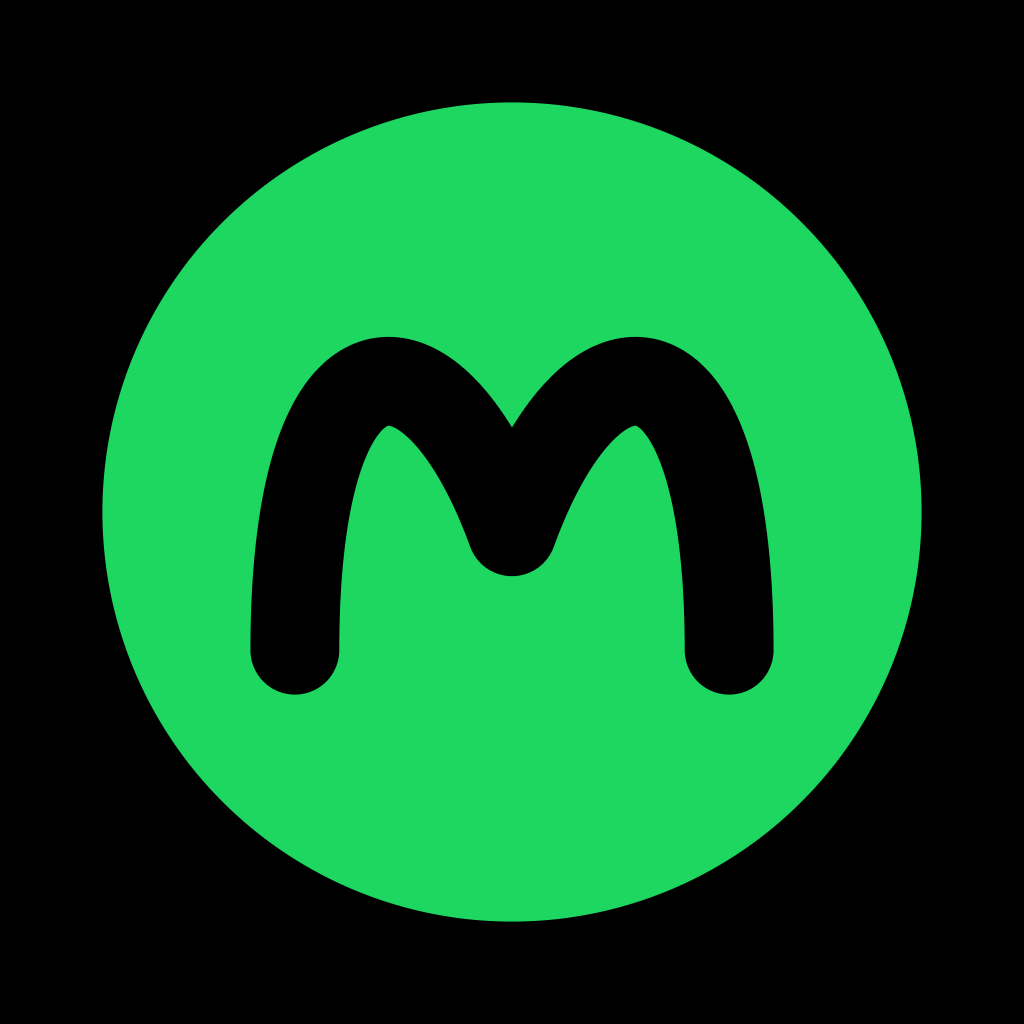
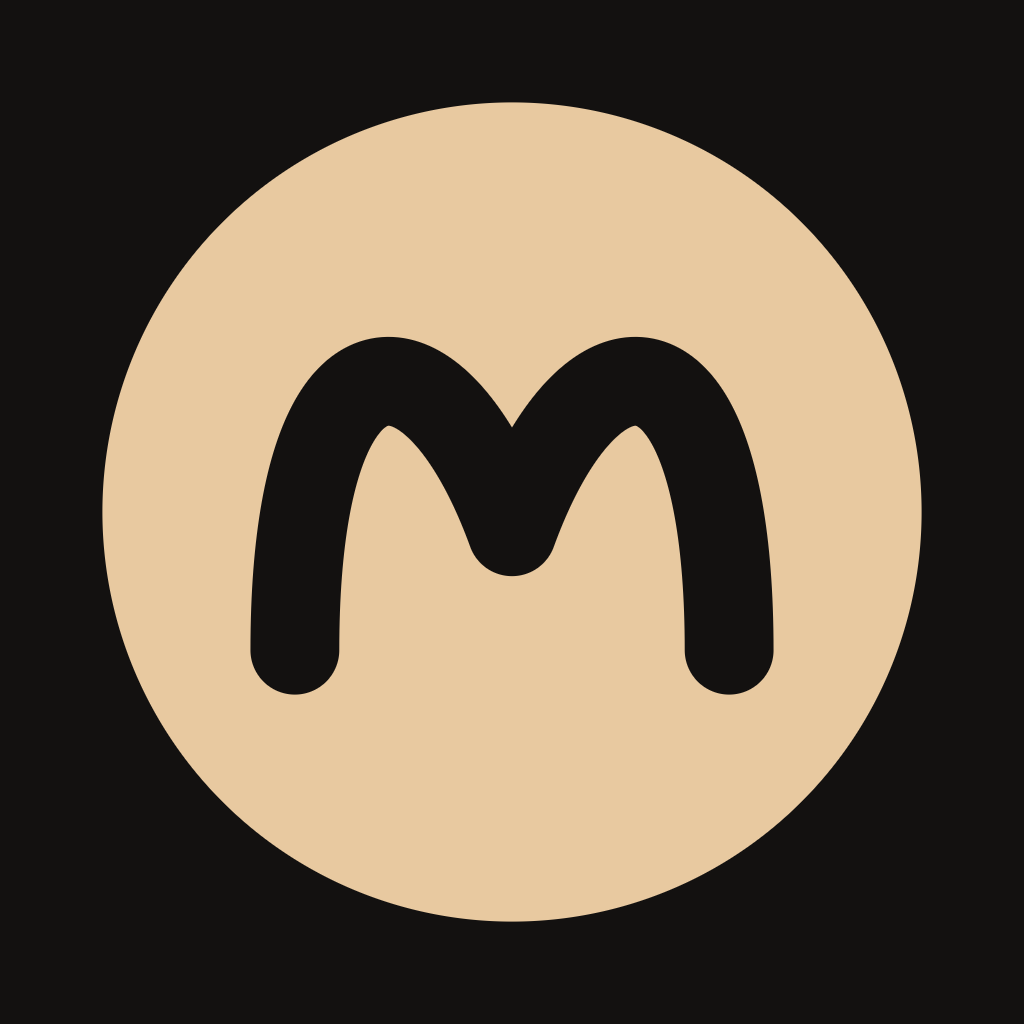
Short links with the song's cover, in Mominfy's sand look
A link may now carry only the YouTube video; the page looks up the song's
name from YouTube and shows its cover, so the app can share short links.
Chat previews show a tidy Mominfy card with the new sand icon.

diff --git a/index.html b/index.html
@@ -4,14 +4,20 @@
 <meta charset="utf-8">
 <meta name="viewport" content="width=device-width, initial-scale=1">
 <title>Mominfy</title>
-<meta name="description" content="Open this song in Mominfy · افتح هذه الأغنية في Mominfy">
-<meta property="og:title" content="Mominfy">
-<meta property="og:description" content="Open this song in Mominfy · افتح هذه الأغنية في Mominfy">
+<meta name="description" content="Listen to this song in Mominfy · اسمع هذه الأغنية في Mominfy">
+<!-- What chat apps show for the link: the app's name and icon on a tidy card. -->
+<meta property="og:type" content="music.song">
+<meta property="og:site_name" content="Mominfy">
+<meta property="og:title" content="Listen on Mominfy · اسمعها على Mominfy">
+<meta property="og:description" content="Tap to open the song in Mominfy">
 <meta property="og:image" content="https://mominatrash.github.io/mominfy-link/icon.png">
-<meta name="theme-color" content="#121212">
+<meta property="og:image:width" content="1024">
+<meta property="og:image:height" content="1024">
+<meta name="twitter:card" content="summary">
+<meta name="theme-color" content="#131110">
 <link rel="icon" href="icon.png">
 <style>
-  :root { --bg: #121212; --card: #1f1f1f; --text: #ffffff; --muted: #b3b3b3; --accent: #1ed760; }
+  :root { --bg: #131110; --card: #1e1b18; --line: #36312c; --text: #f4efe9; --muted: #a9a39a; --accent: #e8c9a0; --on-accent: #2a1d0c; }
   * { box-sizing: border-box; }
   body {
     margin: 0; min-height: 100vh; display: flex; align-items: center; justify-content: center;
@@ -19,23 +25,28 @@
     font-family: -apple-system, BlinkMacSystemFont, "Segoe UI", Tahoma, sans-serif;
   }
   main { width: 100%; max-width: 380px; text-align: center; }
-  img { width: 96px; height: 96px; border-radius: 22px; }
-  .song { margin: 28px 0 6px; font-size: 24px; font-weight: 800; line-height: 1.3; overflow-wrap: anywhere; }
-  .artist { color: var(--muted); font-size: 16px; overflow-wrap: anywhere; }
-  .open {
-    display: block; margin: 32px 0 14px; padding: 15px; border-radius: 999px;
-    background: var(--accent); color: #000; font-size: 17px; font-weight: 800; text-decoration: none;
+  .brand { display: inline-flex; align-items: center; gap: 8px; color: var(--muted); font-size: 14px; font-weight: 600; }
+  .brand img { width: 28px; height: 28px; border-radius: 8px; }
+  .cover {
+    display: block; width: 100%; aspect-ratio: 1; margin: 22px 0 0; border-radius: 16px; object-fit: cover;
+    background: var(--card); border: 1px solid var(--line);
   }
-  .youtube { color: var(--text); font-size: 15px; font-weight: 600; }
-  .note { margin-top: 36px; color: var(--muted); font-size: 13px; line-height: 1.6; }
+  .song { margin: 22px 0 6px; font-size: 24px; font-weight: 800; line-height: 1.3; overflow-wrap: anywhere; }
+  .artist { color: var(--muted); font-size: 16px; overflow-wrap: anywhere; min-height: 1.2em; }
+  .open {
+    display: block; margin: 28px 0 14px; padding: 15px; border-radius: 999px;
+    background: var(--accent); color: var(--on-accent); font-size: 17px; font-weight: 800; text-decoration: none;
+  }
+  .youtube { display: inline-block; color: var(--text); font-size: 15px; font-weight: 600; }
+  .note { margin-top: 32px; color: var(--muted); font-size: 13px; line-height: 1.6; }
   .second { display: block; margin-top: 2px; font-size: 0.8em; font-weight: 600; opacity: 0.75; }
-  .youtube { display: inline-block; }
   [hidden] { display: none; }
 </style>
 </head>
 <body>
 <main>
-  <img src="icon.png" alt="Mominfy">
+  <span class="brand"><img src="icon.png" alt="">Mominfy</span>
+  <img class="cover" id="cover" alt="" hidden>
   <div class="song" id="song" dir="auto">Mominfy</div>
   <div class="artist" id="artist" dir="auto"></div>
   <a class="open" id="open" href="#">Open in Mominfy<span class="second" dir="rtl" lang="ar">افتح في <bdi>Mominfy</bdi></span></a>
@@ -43,25 +54,43 @@
   <p class="note">Don't have Mominfy? Ask whoever sent you this link.<span class="second" dir="rtl" lang="ar">ما عندك <bdi>Mominfy</bdi>؟ اطلبه من الشخص اللي بعتلك الرابط.</span></p>
 </main>
 <script>
-  // The song comes in the address: v = YouTube video, t = title, a = artist. The app is opened
-  // through its own mominfy://song address with the same details.
+  // The song comes in the address: v = YouTube video, and for a song with no video, t = title and
+  // a = artist. New links carry only the video, so they stay short in chats; the page looks up the
+  // name and cover itself. The app is opened through its own mominfy://song address.
   var params = new URLSearchParams(location.search);
   var video = params.get('v');
   var title = params.get('t');
   var artist = params.get('a');
-  if (title) {
-    document.getElementById('song').textContent = title;
-    document.title = title + ' · Mominfy';
+  var valid = video && /^[\w-]{11}$/.test(video);
+
+  function show(name, by) {
+    if (name) {
+      document.getElementById('song').textContent = name;
+      document.title = name + ' · Mominfy';
+    }
+    if (by) document.getElementById('artist').textContent = by;
   }
-  if (artist) document.getElementById('artist').textContent = artist;
+  show(title, artist);
+
+  if (valid) {
+    var cover = document.getElementById('cover');
+    cover.src = 'https://i.ytimg.com/vi/' + video + '/hqdefault.jpg';
+    cover.hidden = false;
+    var youtube = document.getElementById('youtube');
+    youtube.href = 'https://youtu.be/' + video;
+    youtube.hidden = false;
+    if (!title) {
+      fetch('https://www.youtube.com/oembed?format=json&url=' + encodeURIComponent('https://www.youtube.com/watch?v=' + video))
+        .then(function (r) { return r.ok ? r.json() : null; })
+        .then(function (info) {
+          if (!info) return;
+          show(info.title, (info.author_name || '').replace(/\s*-\s*Topic$/, '').replace(/VEVO$/, ''));
+        })
+        .catch(function () {});
+    }
+  }
 
   var query = location.search.slice(1);
-  var youtube = video && /^[\w-]{11}$/.test(video) ? 'https://youtu.be/' + video : null;
-  if (youtube) {
-    var link = document.getElementById('youtube');
-    link.href = youtube;
-    link.hidden = false;
-  }
   // Android's Chrome opens apps through an intent address; without the app it stays here.
   var here = location.href.split('#')[0];
   var app = /android/i.test(navigator.userAgent)
